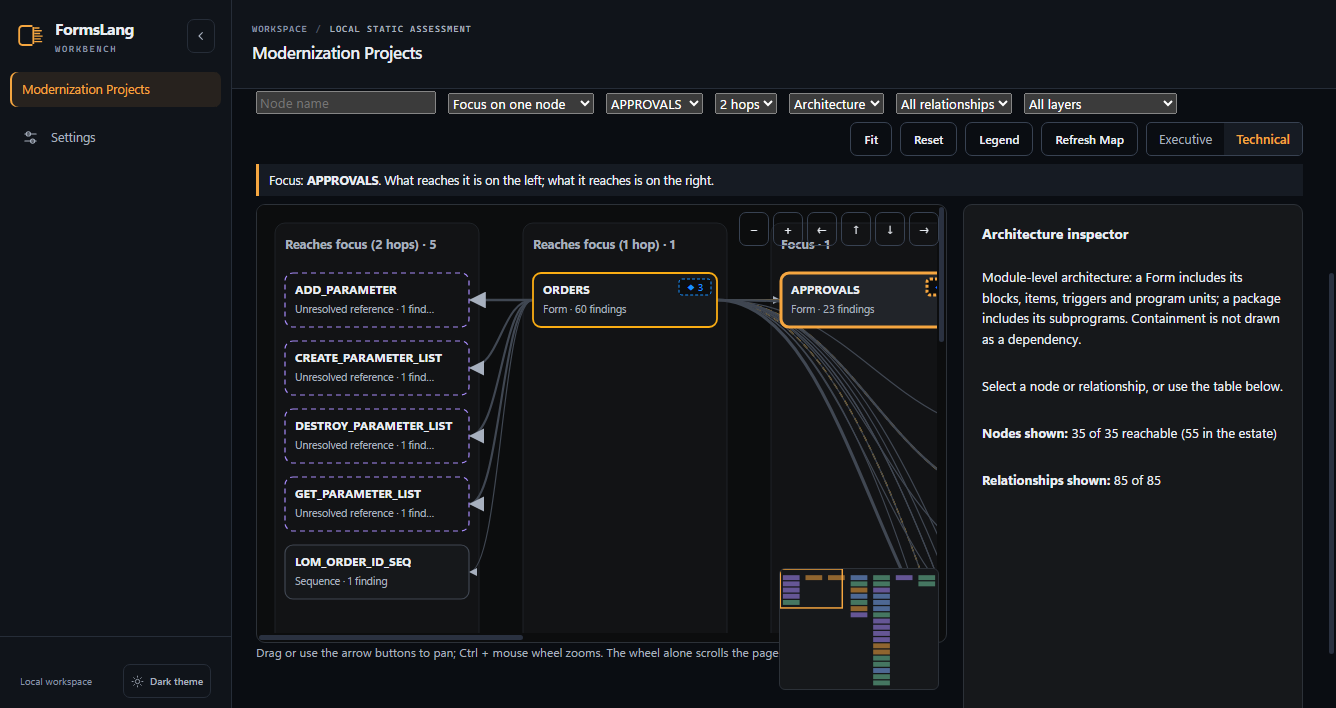
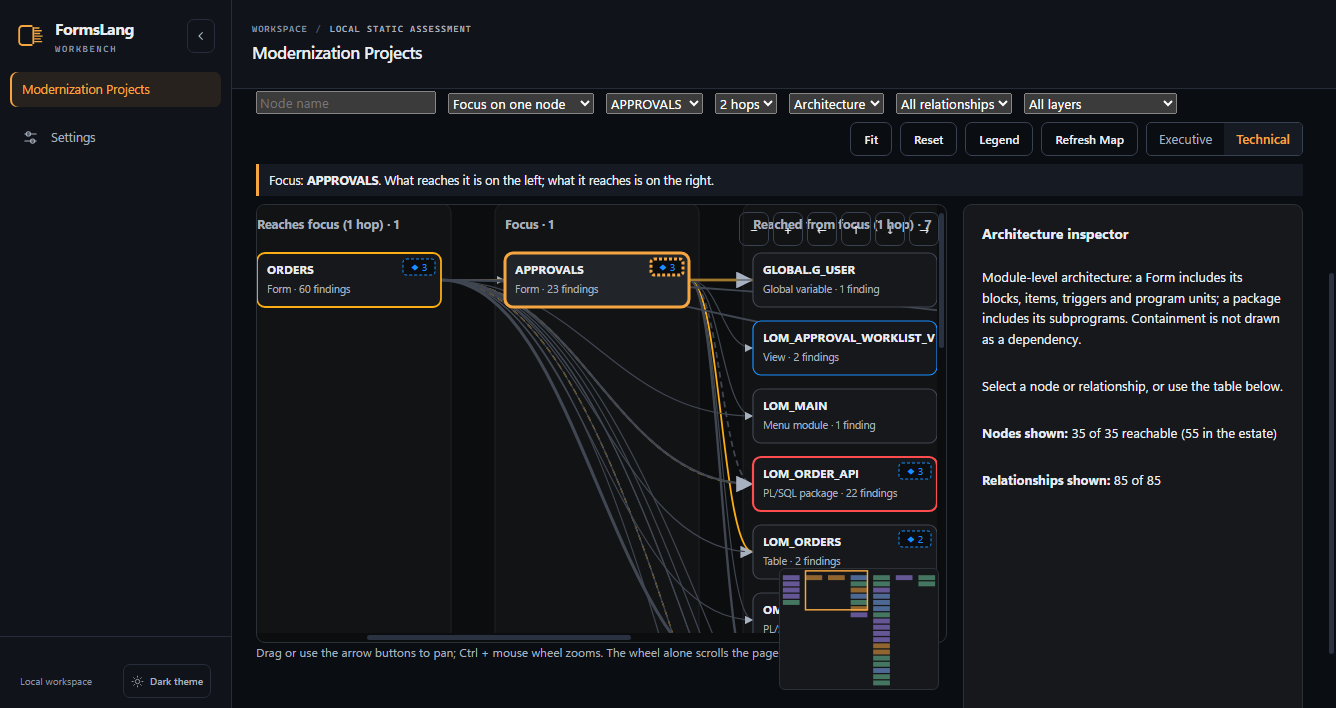
fix: open a focused System Map on the focus node and check the 2.2 views at release viewports
A new FOCUS layout scrolled to the far-left callers, so on a width-constrained
stage the focus column started off-screen. The map now centres the focus node
when a new focus layout arrives and keeps the user's scroll on refreshes of the
same layout. The showcase acceptance checks the focus node is in view and that
Overview, System Map, Hotspots and Module 360 fit 1920x1080, 1440x900, 1366x768
and 390x844 without page-level horizontal scroll.

diff --git a/formslang/ui/modernization_visual.py b/formslang/ui/modernization_visual.py
@@ -459,8 +459,11 @@ async function loadProjectSystemMap() {
     if (systemMapState.selectedEdge) systemMapState.selectedEdge = data.edges.find(e => e.id === systemMapState.selectedEdge.id) || null;
     // A new layout starts at 100%; a refresh of the same view keeps the reader's zoom.
     const key = [data.view, data.focus, data.layer_filter, data.edge_filter, data.analysis_revision].join('|');
-    if (key !== systemMapState.layoutKey) { systemMapState.layoutKey = key; systemMapState.zoom = 1; }
+    const fresh = key !== systemMapState.layoutKey;
+    if (fresh) { systemMapState.layoutKey = key; systemMapState.zoom = 1; }
     renderProjectSystemMap();
+    // A new focus layout opens on the focus column, not on its far-left callers.
+    if (fresh && data.view === 'FOCUS' && data.focus) systemMapCenterOn(data.focus);
   } catch (e) {
     if (projectCurrent(c) && request === systemMapState.request) projectError(e.message);
   }
@@ -799,6 +802,16 @@ function systemMapFit() {
   systemMapState.zoom = Math.max(0.1, Math.min(1, (width - 16) / g.width, (height - 16) / g.height));
   systemMapRedraw();
   if (canvas) { canvas.scrollLeft = 0; canvas.scrollTop = 0; }
+  systemMapUpdateMinimap();
+}
+
+function systemMapCenterOn(id) {
+  const d = systemMapState.data, canvas = $('system-map-canvas');
+  if (!d || !canvas) return;
+  const g = systemMapGeometry(d), p = g.positions[id], zoom = systemMapState.zoom;
+  if (!p) return;
+  canvas.scrollLeft = Math.max(0, (p.x + g.w / 2) * zoom - (canvas.clientWidth || 0) / 2);
+  canvas.scrollTop = Math.max(0, p.y * zoom - 48);
   systemMapUpdateMinimap();
 }
 

diff --git a/tests/test_visual_ui_behavior.py b/tests/test_visual_ui_behavior.py
@@ -264,6 +264,19 @@ assert.ok(!html.includes('id="system-map-depth" disabled'));
 ''')
 
 
+def test_a_new_focus_layout_opens_centred_on_the_focus_node(tmp_path):
+    run_map(tmp_path, r'''
+const focusLayout={...mapData().layout,mode:'FOCUS',columns:[{id:'IN_1',label:'Reaches focus (1 hop)',x:28,width:184,count:1},{id:'FOCUS',label:'Focus',x:276,width:184,count:1}]};
+api=mapApi(()=>mapData({view:'FOCUS',focus:'pkg:P',layout:focusLayout}));
+$('system-map-canvas').clientWidth=400;
+await projectSystemMapOpen({focus:'pkg:P'});
+assert.equal($('system-map-canvas').scrollLeft,(276+92)-200,'the focus column is centred');
+assert.equal($('system-map-canvas').scrollTop,20);
+$('system-map-canvas').scrollLeft=7;
+await loadProjectSystemMap();
+assert.equal($('system-map-canvas').scrollLeft,7,'a refresh of the same layout keeps where the user scrolled');
+''')
+
 def test_truncation_copy_names_what_is_shown_and_how_to_reach_the_rest(tmp_path):
     run_map(tmp_path, r'''
 api=mapApi(mapData({truncation:[{reason:'NODE_LIMIT',limit:100,available:4812},{reason:'EDGE_LIMIT',limit:200,available:12050},{reason:'SELECTOR_LIMIT',limit:250,available:900}]}));
